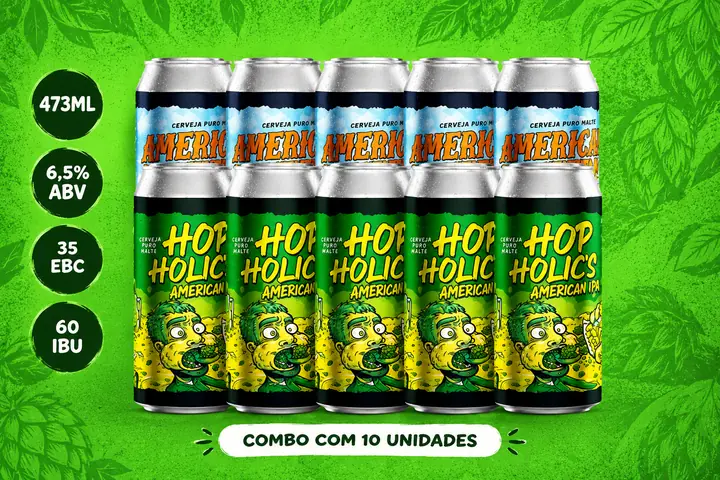
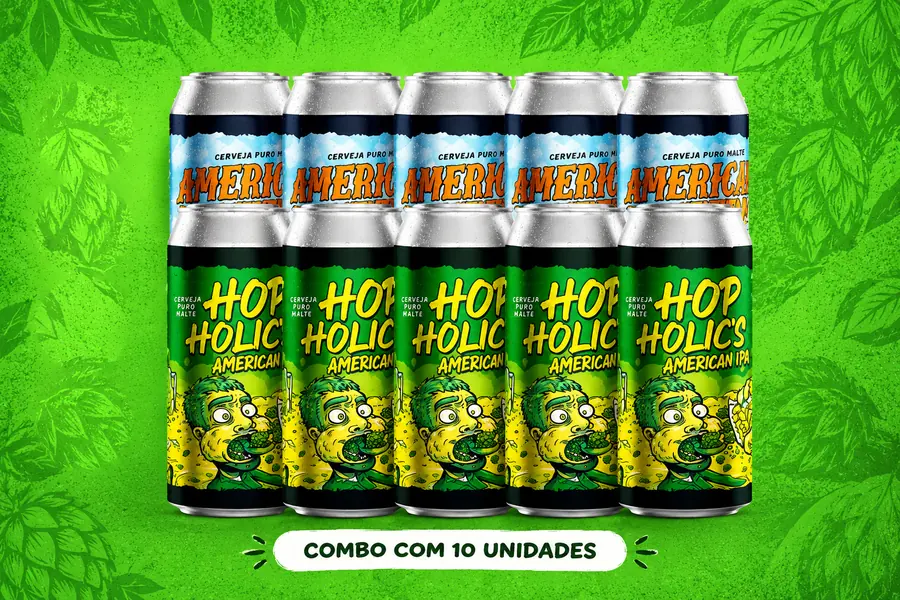
Add files via upload

diff --git a/index.html b/index.html
@@ -238,7 +238,6 @@ header nav a:not(.btn){padding:12px 8px}
 .pr small{font:400 .85rem Lato,system-ui,sans-serif;color:#bdbdbd;letter-spacing:0}
 .pc .btn{width:100%;text-align:center}
 .off{position:absolute;top:12px;left:12px;z-index:1;background:#FFD800;color:#000;padding:4px 14px;border-radius:30px;font:400 1.05rem 'Bebas Neue',Impact,sans-serif;letter-spacing:.06em}
-.slot{border:2px dashed rgba(0,0,0,.35);border-radius:16px;min-height:280px;display:grid;place-items:center;font:400 1.5rem 'Bebas Neue',Impact,sans-serif;letter-spacing:.16em;text-transform:uppercase;color:rgba(0,0,0,.45)}
 .sold{width:max-content;max-width:100%;margin:34px auto 0;padding:10px 22px;border-radius:40px;background:#000;color:#FFD800;font:400 1.1rem 'Bebas Neue',Impact,sans-serif;letter-spacing:.08em;text-align:center}
 .cart{max-width:640px;margin:34px auto 0;padding:28px 26px;background:#fff;border-radius:16px;box-shadow:0 3px 0 rgba(0,0,0,.35);text-align:center;color:#000}
 .cart :focus-visible{outline-color:#000}
@@ -302,15 +301,17 @@ header nav a:not(.btn){padding:12px 8px}
 <div class="pb"><h3>Bloody Mary Red Lager</h3><p>Cerveja puro malte, lata de 473 ml.</p><div class="pr">R$ 12,99 <small>a lata</small></div>
 <button class="btn add" type="button">Adicionar ao carrinho</button></div></article>
 <article class="pc rv" data-id="combo-apa-ipa" data-name="Combo APA e IPA (5x American Western + 5x Hop Holic’s)" data-price="15990"><span class="off">20% OFF</span>
-<img src="img/loja-combo-apa-ipa.webp" width="720" height="480" alt="Combo com 5 latas American Western APA e 5 latas Hop Holic’s American IPA" loading="lazy" decoding="async">
+<img src="img/loja-combo-apa-ipa.webp" width="900" height="600" alt="Combo com 5 latas American Western APA e 5 latas Hop Holic’s American IPA" loading="lazy" decoding="async">
 <div class="pb"><h3>Combo APA e IPA</h3><p>5x APA (American Western) + 5x IPA (Hop Holic’s) = 10 unidades.</p><div class="pr">R$ 159,90 <small>10 unidades</small></div>
 <button class="btn add" type="button">Adicionar ao carrinho</button></div></article>
 <article class="pc rv" data-id="american-western" data-name="American Western APA Puro Malte 473ml" data-price="1499">
 <img src="img/loja-american-western.webp" width="720" height="480" alt="Latas de American Western American Pale Ale em cenário do Velho Oeste" loading="lazy" decoding="async">
 <div class="pb"><h3>American Western APA</h3><p>American Pale Ale puro malte, lata de 473 ml.</p><div class="pr">R$ 14,99 <small>a lata</small></div>
 <button class="btn add" type="button">Adicionar ao carrinho</button></div></article>
-<!-- ESPAÇO RESERVADO: para incluir mais uma cerveja, troque este bloco por um <article class="pc"> igual aos acima -->
-<div class="slot rv" aria-hidden="true">Em breve</div>
+<article class="pc rv" data-id="hop-holics-ipa" data-name="Hop Holic’s IPA Puro Malte 473ml" data-price="1699">
+<img src="img/loja-hop-holics-ipa.webp" width="720" height="480" alt="Latas de Hop Holic’s American IPA com ilustração de um homem comendo lúpulo" loading="lazy" decoding="async">
+<div class="pb"><h3>Hop Holic’s IPA</h3><p>American IPA puro malte, lata de 473 ml.</p><div class="pr">R$ 16,99 <small>a lata</small></div>
+<button class="btn add" type="button">Adicionar ao carrinho</button></div></article>
 </div>
 <p class="sold rv">Os produtos são vendidos e enviados por Cervejaria Klaus</p>
 <div class="cart rv" id="carrinho"><h3>Seu carrinho</h3>
